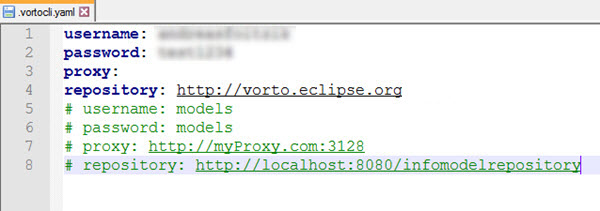
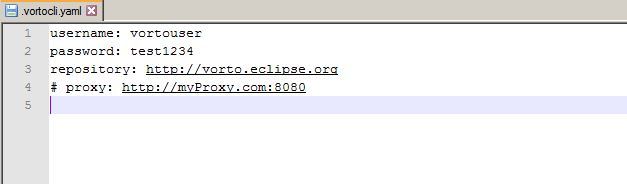
Cli Tool documentation improvements. Fixes #254

Changed region(s): [[0.0, 0.0, 1.0, 1.0]]

diff --git a/website/documentation/vorto-repository/cli-tool/cli-tool.md b/website/documentation/vorto-repository/cli-tool/cli-tool.md
@@ -23,7 +23,7 @@ Vorto Command Line Interface (CLI) tool is REST-Client that allows you, to acces
 
 The CLI-Tool is based on a simple structure.
 
-It consists of a Command Line Interface as well as a `.yaml` file, that stores all necessary configuration properties like _Username_, _Password_, _Proxy_ and _Repository_.
+It consists of a Command Line Interface as well as a **.yaml** file, that stores all necessary configuration properties like _Username_, _Password_, _Proxy_ and _Repository_.
 
 ## Installation
 
@@ -31,19 +31,48 @@ First of all, you have to download the CLI Tool from the <a href="{{ base }}/dow
 
 A very convenient way to use the CLI Tool is, to add the path of the directory into the system's environment PATH variable. Once you did this, you can call the CLI-Tool from any directory.
 
+For Windows,
+Open Control Panel -> Advanced System Settings -> Advanced -> Environment Variables 
+
 ![Environment Variable]({{base}}/img/documentation/cli_evnmt_variable.jpg)
 
-Before you can use the CLI Tool as a REST Client, you need to initialize basic preferences. The preferences are stored in the file `.vortocli.yaml`, which is located in your home directory (in Windows, for example: `C:\Users\{$username}\`).
+For Mac/Linux, from Terminal window execute,
 
-You have to setup vorto in one of the following ways:
+	export path=%path%:~/Applications/<<vorto cli tool installed directory>>
 
-* Use the **vorto config** command.  
-  To initialize vorto with additional values (or change them afterwards) like username, password, proxy or repository, use the command flags `-username`, `-password`, `-proxy` or `-repo`.  
-  Example: `vorto config -username <username> -password <password> -repo http://vorto.eclipse.org`
-* Edit the `.vortocli.yaml` file with a text editor.  
-  ![CLI Yaml file]({{base}}/img/documentation/yamlfile.jpg)
+
+Before you can use the CLI Tool as a REST Client, you need to initialize basic preferences. 
+
+By default the preferences are stored in `<<home directory>>/.vortocli.yaml.file`, which is located in your home directory.
+For Windows,
+
+	`C:\Users\{$username}\.vortocli.yaml.file`
+
+For Mac, 
+
+	`/Users/{$username}/Documents/.vortocli.yaml.file`
+
+For Linux, 
+
+	`/usr/{$username}/Documents/.vortocli.yaml.file`
+
+
+You have to setup vorto via **vorto config**. If you want to initialize vorto with additional values (or change them afterwards) like _-username_, _-password_, _-proxy_ and _-repo_, then you can extend the **vorto config** command with four additional flag parameters _-username_, _-password_, _-proxy_ and _-repo_, or you can edit the _.vortocli.yaml_ file via text editor. 
+
+	vorto config -username vortouser -password password -repo http://vorto.eclipse.org
 
 Congratulations! - Setup is done and you are now able to use the Vorto CLI Tool.
+
+![CLI Yaml file]({{base}}/img/documentation/yamlfile.jpg)
+
+<table class="table table-bordered">
+<tbody>
+  <tr>
+    <td><i class="fa fa-info-circle info-note"></td>
+    <td>Enable the proxy in the configuration file _.vortocli.yaml_ (Line 4) if you are accessing internet via proxy server. </td>
+  </tr>
+ </tbody>
+</table>
 
 
 ## CLI Commands
@@ -67,44 +96,79 @@ Each of them is based on a similar structure and offers a unique functionality.
   <tbody>
   <tr>
     <td>vorto config</td>
-    <td>With the vorto config command you do the basic CLI Tool setup.<br>Additional flag parameters:<br><ul><li>username - vorto username credentials</li><li>password - vorto password credentials</li><li>proxy- network proxy</li><li>repo - specify repository (Default: http://vorto.eclipse.org/repo)</li></ul></td>
-    <td><b>vorto config -username andreas -password test1234 -repo http://vorto.eclipse.org/repo</b></td>
+    <td>With the vorto config command you do the basic CLI Tool setup.<br>Additional flag parameters:<br><ul><li>username - vorto username credentials</li><li>password - vorto password credentials</li><li>proxy- network proxy</li><li>repo - specify repository (Default: http://vorto.eclipse.org)</li></ul></td>
+    <td>
+	For (Windows/Mac/Linux),<br/>
+	<b>vorto config -username vortouser -password password -repo http://vorto.eclipse.org</b></td>
    </tr>
    <tr>
     <td>vorto help</td>
     <td>To get more familiar with the CLI Tool commands, it's a good approach to call the <b>vorto help</b> command.<br><b>vorto help</b> lists you all other possible commands, including flag parameters and examples.</td>
-    <td><b>vorto help</b></td>
+    <td>For (Windows/Mac/Linux),<br/>
+	<b>vorto help</b></td>
    </tr>
    <tr>
     <td>vorto query</td>
     <td>After everything is successfully setup, you are able to access the Repository.<br> Via <b>vorto query</b> you can query all models of your Repository.<br>The result of this command contains all models in the Repository.</td>
-    <td><b>vorto query "*"</b></td>
+    <td>
+	For (Windows/Mac/Linux),<br/>
+		eg.1, <b>vorto query "*"</b><br/>
+		eg.2, <b>vorto query "*functionblocks*"</b></td>
    </tr>
     <tr>
     <td>vorto info</td>
     <td>If you are now interested in a certain model and you want to get more information from this specific model, you can use vorto info to get it.<br> The result of this command is a detailed view of the requested model.</td>
-    <td><b>vorto info examples.informationmodels.sensors.TI_SensorTag_CC2650:1.0.0</b></td>
+    <td>
+	For (Windows/Mac/Linux),<br/>
+	<b>vorto info examples.informationmodels.TI_SensorTag:1.0.0</b></td>
    </tr>
    <tr>
     <td>vorto download</td>
     <td>Furthermore you can start working with a certain model locally, when you download it via <b>vorto download</b>.<br> To open and to work with it, you can use any text editor to modify this certain model and you can even upload it again.<br>Via the flag -outputPath can you specify a download directory.<br>Additional flag parameters:<br><ul><li>output - (Default: DSL)</li><li>outputPath - path to store the download (Default: current directory)</li><li>includeDependencies - whether to include dependencies or not (Default: false)</li></ul></td>
-    <td><b>vorto download examples.informationmodels.sensors.TI_SensorTag_CC2650:1.0.0  -outputPath D:\models</b></td>
+    <td>
+		For Windows, <br/>
+
+		<b>vorto download examples.informationmodels.TI_SensorTag:1.0.0  -outputPath D:\models</b>
+		<br/><br/>
+		For Mac/Linux, <br/>
+		<b>vorto download examples.informationmodels.TI_SensorTag:1.0.0  -outputPath /Users/{$username}/Documents/models/</b>
+	</td>
+
    </tr>
    <tr>
     <td>vorto generators</td>
     <td>If you want to generate platform specific code, you can get a short overview of all active code generators via <b>vorto generators</b>.</td>
-    <td><b>vorto generators</b></td>
+    <td>
+	For (Windows/Mac/Linux),<br/>
+	<b>vorto generators</b></td>
    </tr>
    <tr>
     <td>vorto generate</td>
     <td>Afterwards you can generate <b>vorto generate</b> your platform specific code (specified by -generatorKey) in a very convenient way.<br>Additional flag parameters:<br><ul><li>generatorKey</li><li>outputPath</li></ul></td>
-    <td><b>vorto generators</b></td>
+    <td>
+	For Windows, <br/>	
+	<b>vorto generate examples.informationmodels.TI_SensorTag:1.0.0 -generatorKey mqtt -outputPath D:\models</b>
+	<br/><br/>
+	For Mac/Linux, <br/>
+	<b>vorto generate examples.informationmodels.TI_SensorTag:1.0.0 -generatorKey mqtt -outputPath /Users/{$username}/Documents/models//b>
+	</td>
    </tr>
     <tr>
     <td>vorto share</td>
     <td>Additionally to all this access functionality, you are also able to share your models.<br>Therefore you either have to deposit your credentials in the .vortocli.yaml file or you have to pass them as additional parameters.<br>
     Additional flag parameters:<br><ul><li>username - vorto username credentials (Default: value in .vortocli.yaml)</li><li>password - vorto password credentials (Default: value in .vortocli.yaml)</li></ul></td>
-    <td><b>vorto share D:\Models\ TI_SensorTag_CC2650\src\models\ TI_SensorTag_CC2650.infomodel</b><br><b>vorto share D:\Models\ TI_SensorTag_CC2650\src\models\ TI_SensorTag_CC2650.infomodel -username andreas -password test1234</b></td>
+    <td>
+	For Windows,<br/>
+	<b>vorto share D:\Models\TI_SensorTag_CC2650\src\models\TI_SensorTag.infomodel
+	</b>
+	<br/>
+	<b>vorto share D:\Models\TI_SensorTag_CC2650\src\models\TI_SensorTag.infomodel -username vortouser -password password</b>
+	<br/><br/>
+	For Mac/Linux,<br/>
+	<b>vorto share /Users/{$username}/Documents/models/TI_SensorTag.infomodel
+	</b>
+	<br/><br/>
+	<b>vorto share /Users/{$username}/Documents/models/TI_SensorTag.infomodel -username vortouser -password password</b></td>
    </tr>
   </tbody>
 </table>
